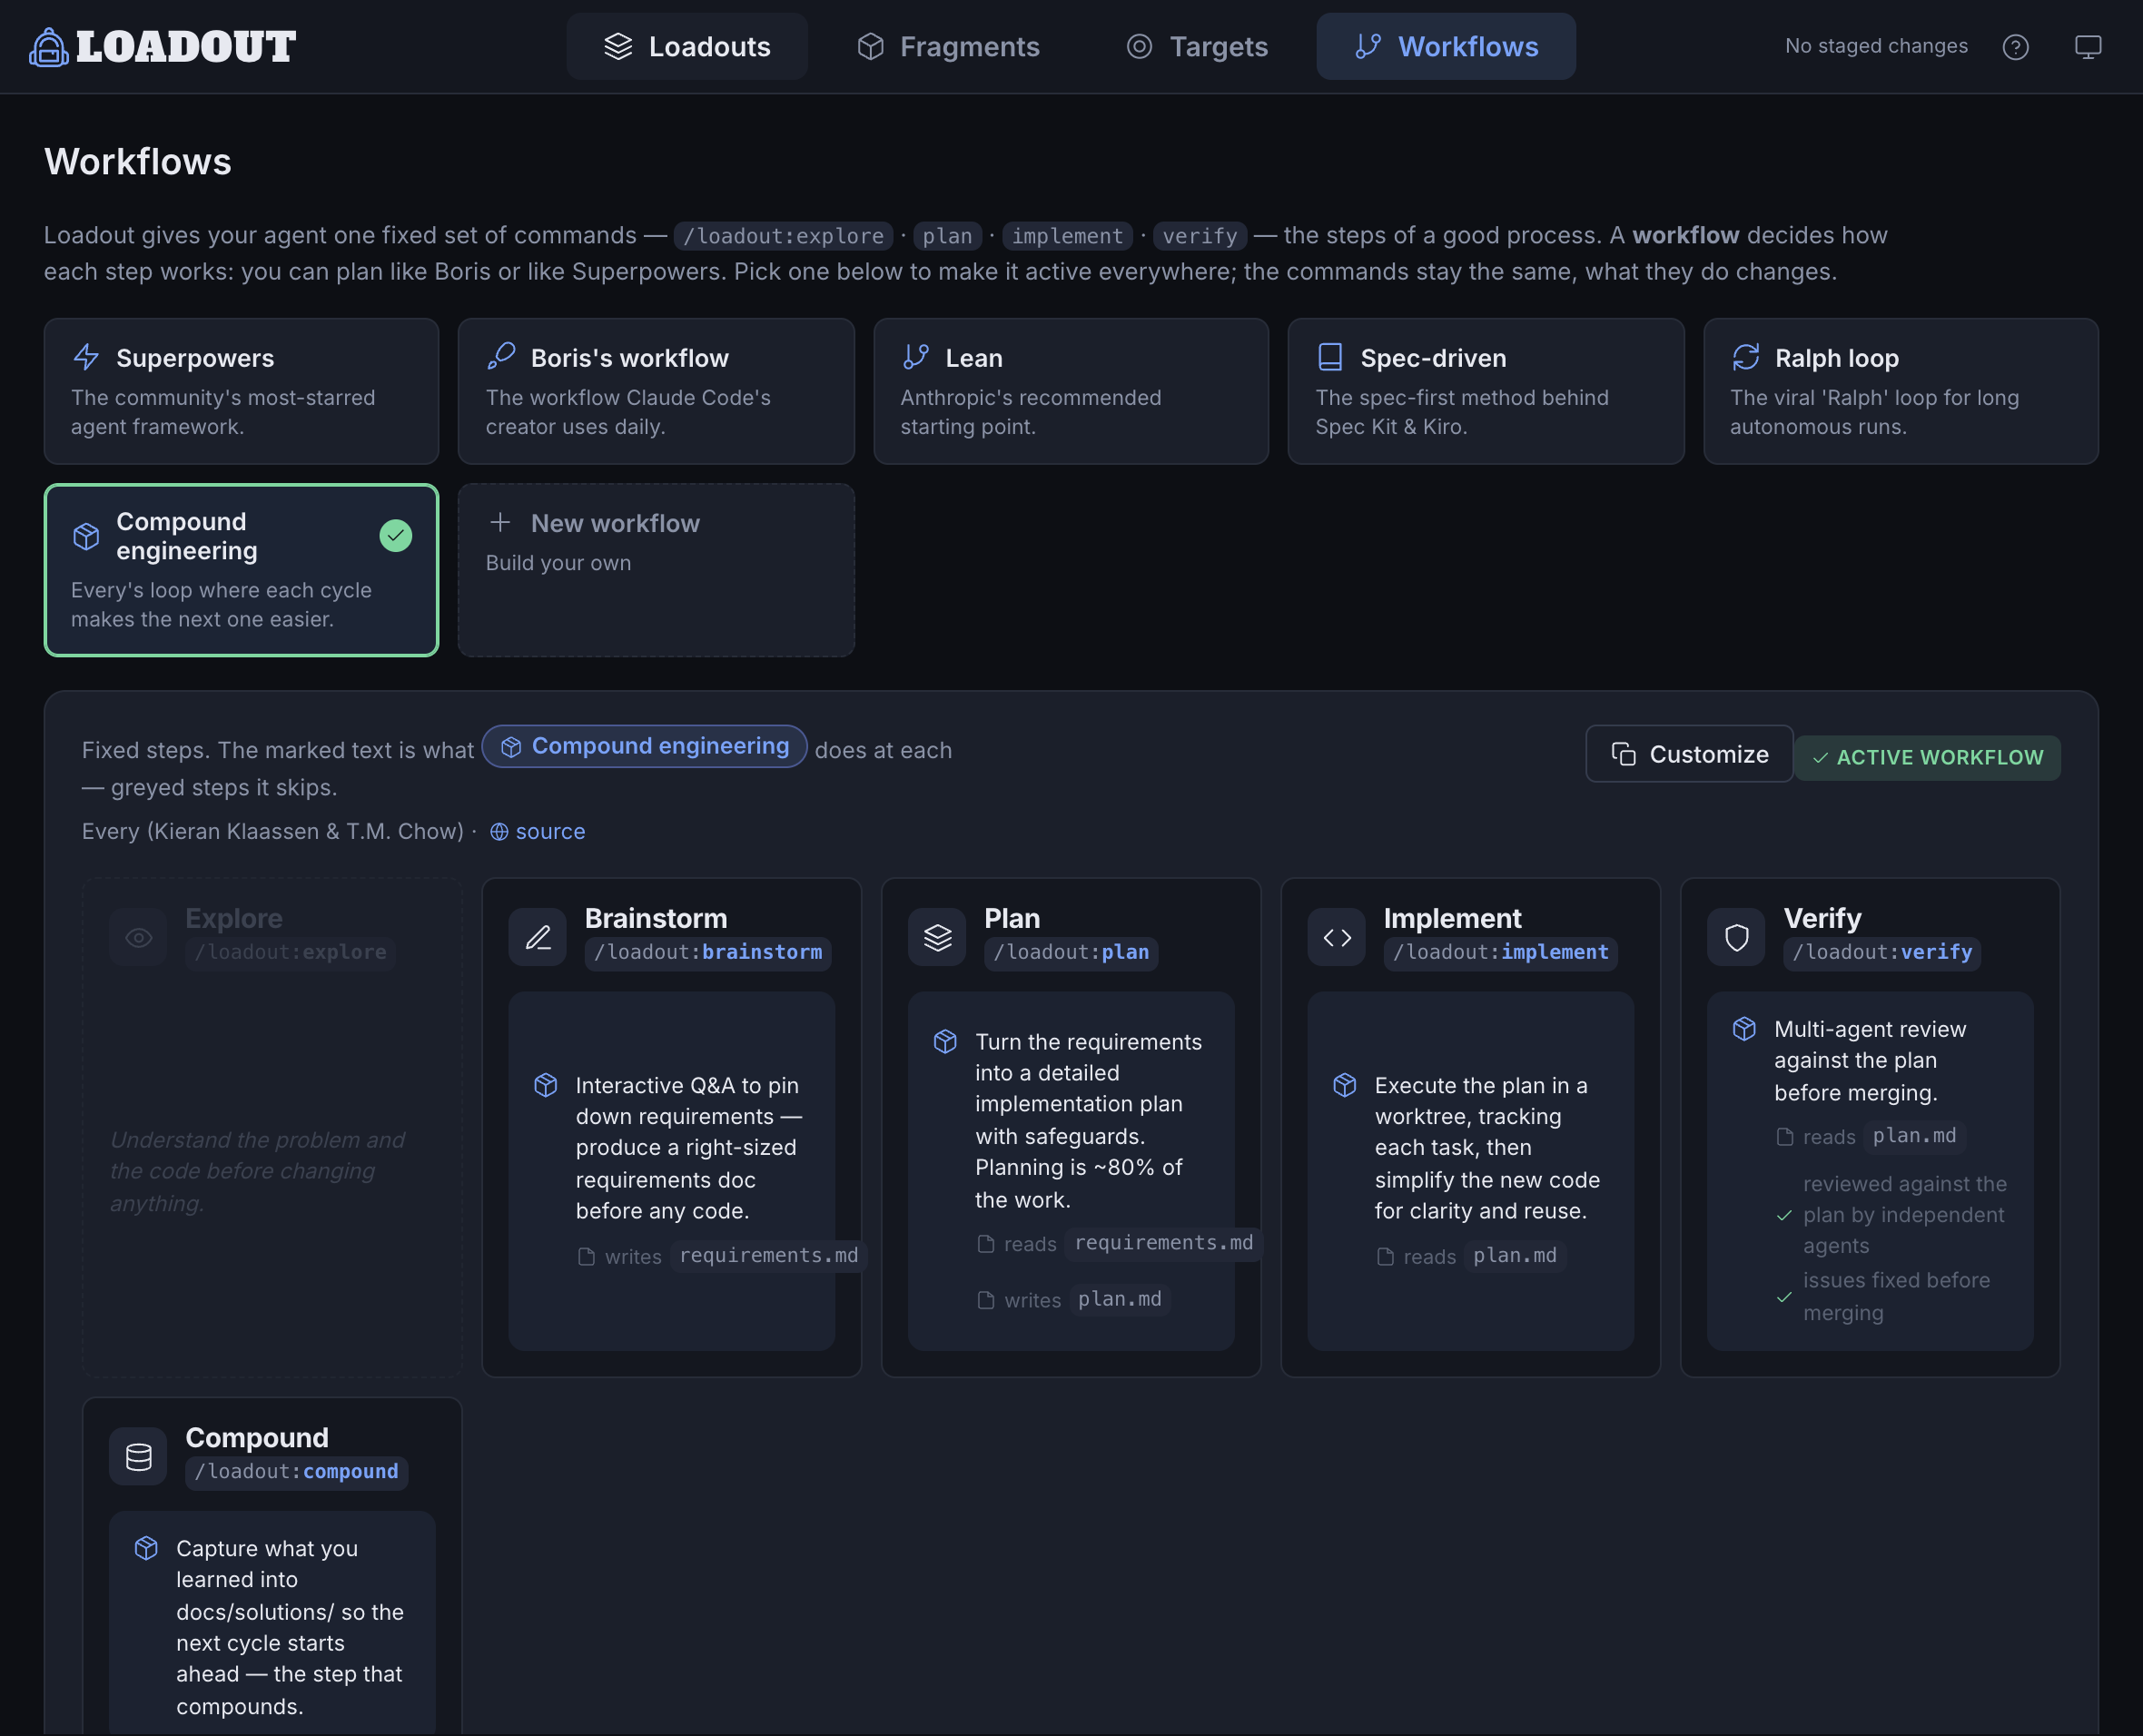
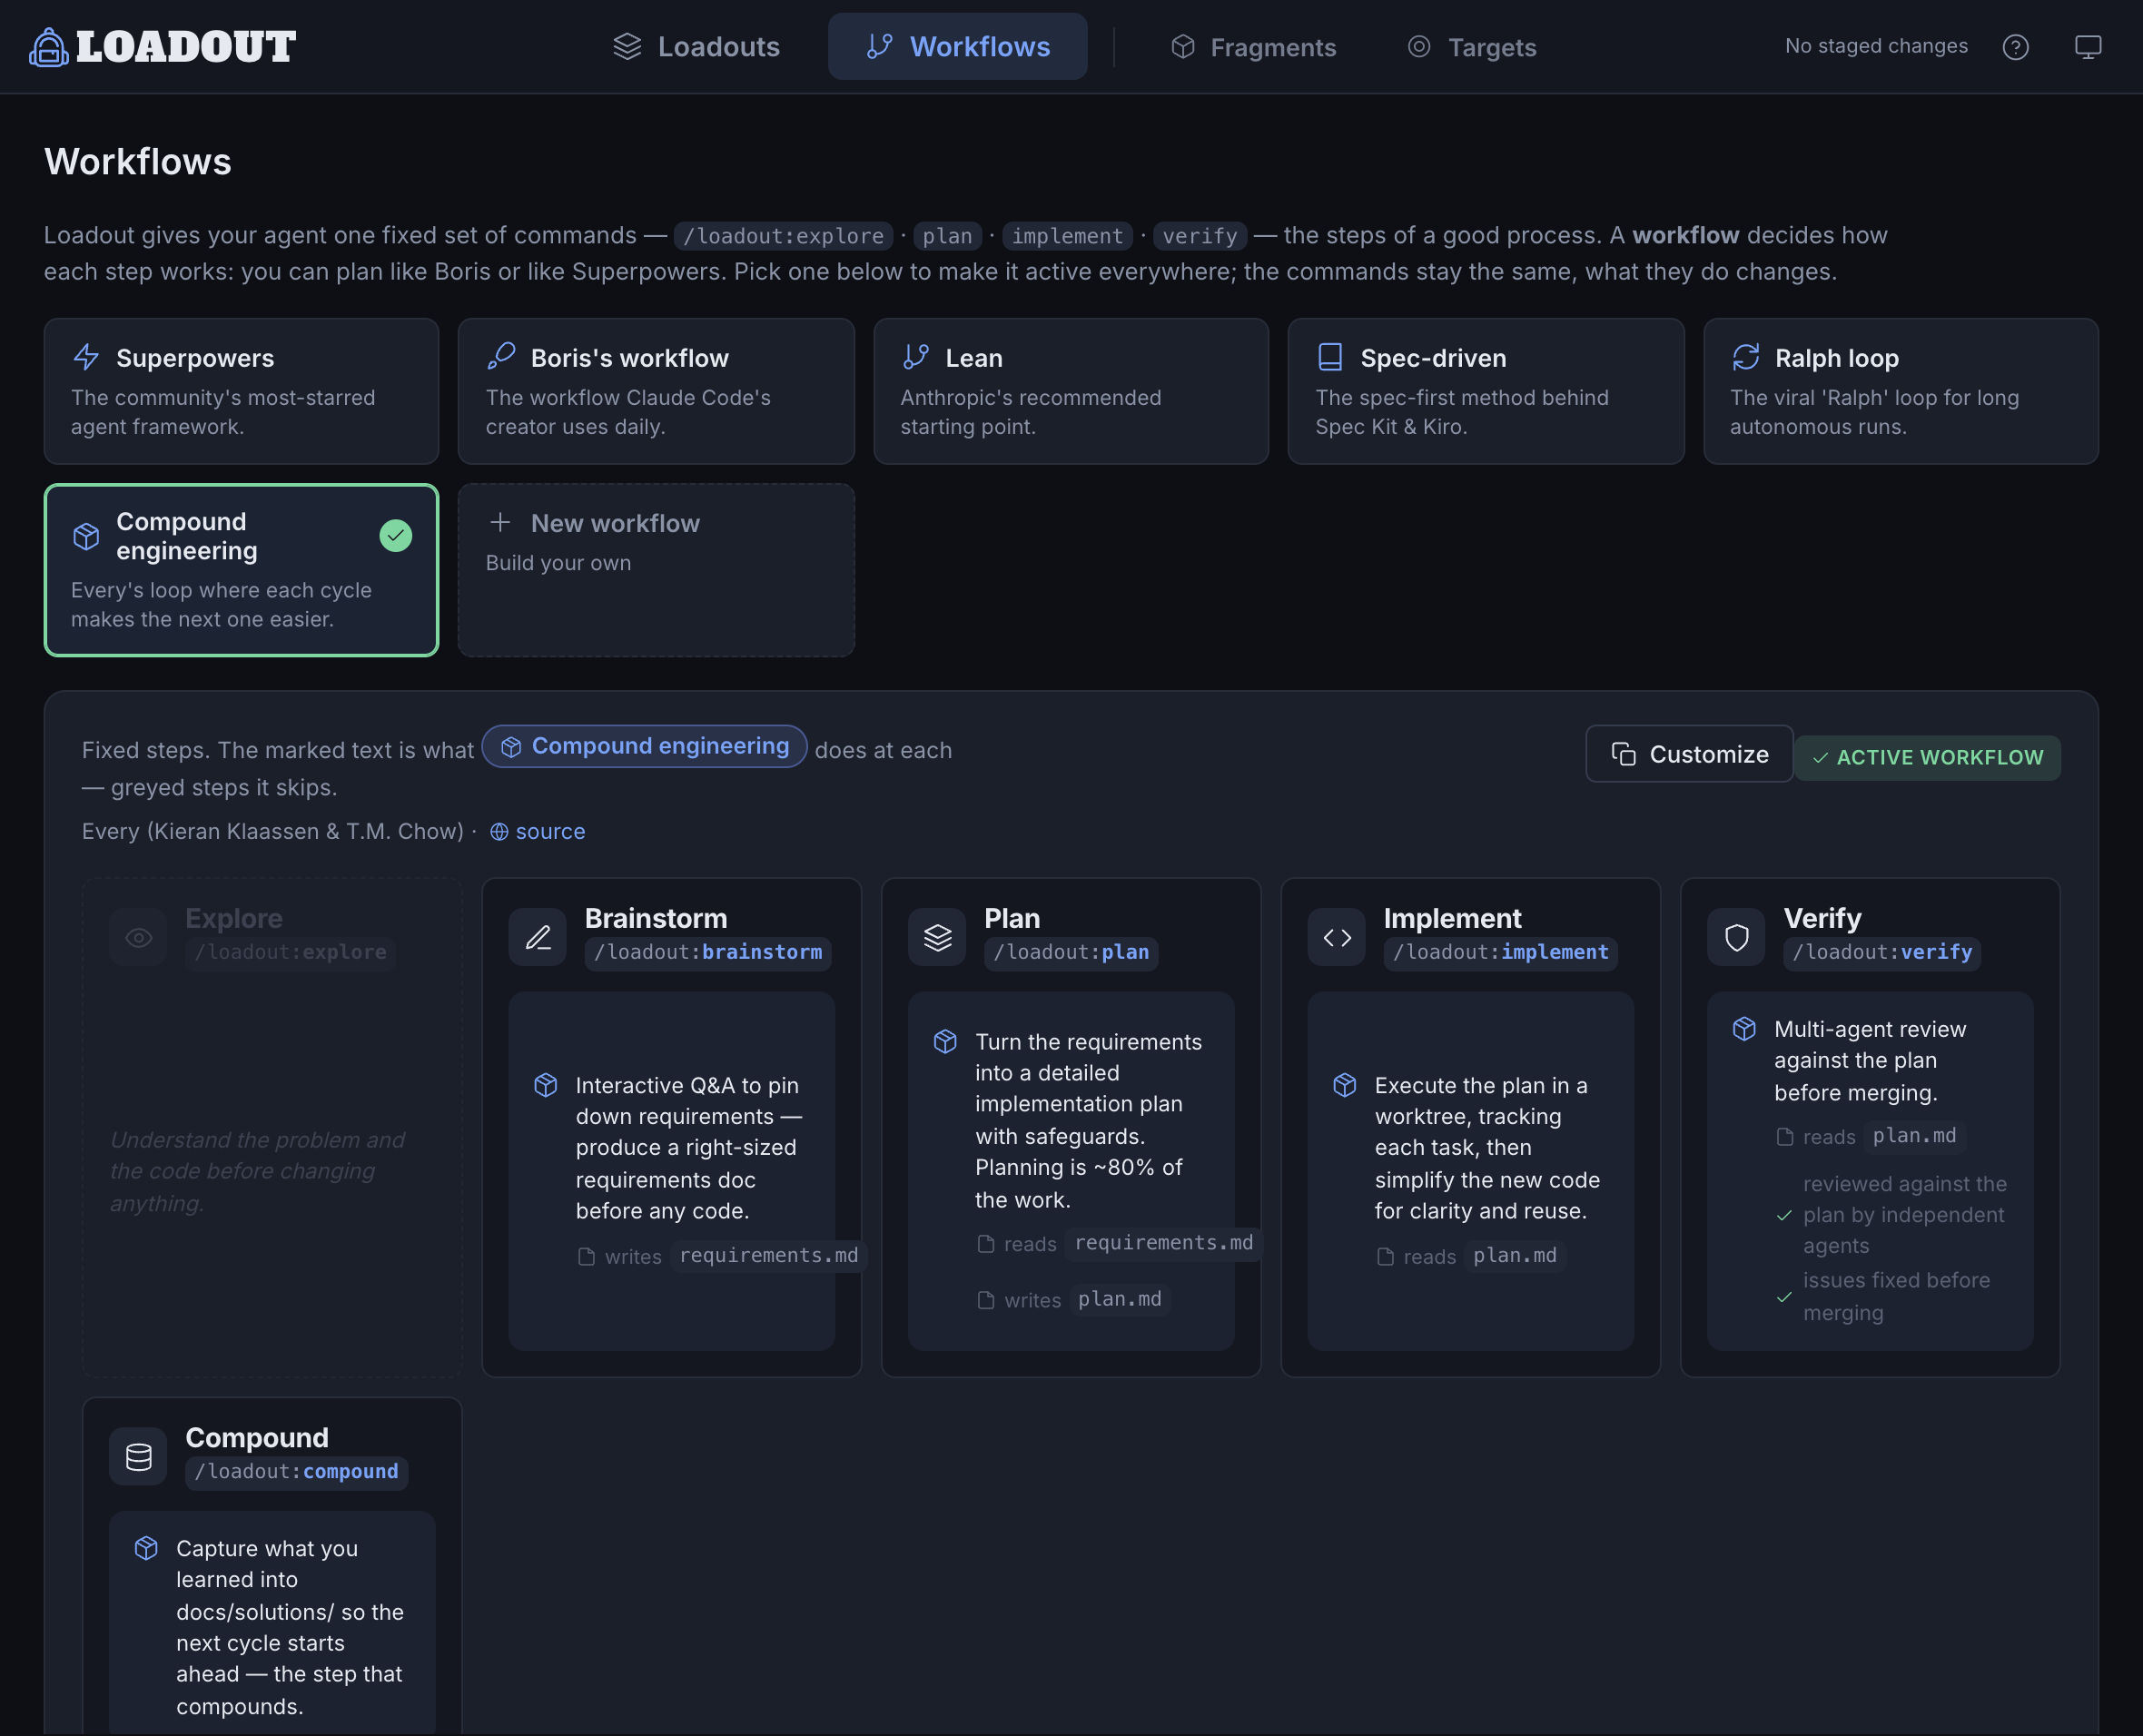
feat(studio): group the tab nav into primary and secondary clusters
The four studio tabs were a flat row of equals, which flattened the
model: Loadouts and Workflows are the two things loadout equips into an
agent (context and process), while Fragments and Targets are the parts a
loadout is built from and selected by. Workflows landing between two
building blocks read as another building block.

Split the nav into two clusters with a thin divider — Loadouts and
Workflows (primary) on the left, Fragments and Targets (secondary,
slightly smaller and dimmer) on the right — so the hierarchy reads at a
glance. Loadouts stays leftmost (the existing nav-order test still holds).

Refresh docs/screenshots/loadouts.png and workflows.png so the README
and docs show the grouped nav instead of the old flat row.

Changed region(s): [[0.2784, 0.0, 0.7424, 0.0617]]

diff --git a/src/studio/assets/studio.css b/src/studio/assets/studio.css
@@ -136,7 +136,11 @@ body {
 .brand-name { font-family: var(--brand); font-size: 22px; font-weight: 400; line-height: 1; letter-spacing: .5px; text-transform: uppercase; }
 .topbar-right { flex: 1 1 0; min-width: 0; display: flex; align-items: center; justify-content: flex-end; gap: 12px; }
 
-.tabs { flex: 0 0 auto; display: flex; gap: 6px; }
+.tabs { flex: 0 0 auto; display: flex; align-items: center; gap: 6px; }
+.tab-group { display: flex; align-items: center; gap: 6px; }
+/* Primary pair (Loadouts, Workflows) = the two things you equip; secondary pair
+   (Fragments, Targets) = the parts they're built from. A thin rule separates them. */
+.tab-divider { width: 1px; height: 22px; background: var(--border); margin: 0 8px; flex: none; }
 .tab {
   display: inline-flex; align-items: center; gap: 8px;
   font: 600 15px var(--sans); color: var(--muted);
@@ -146,6 +150,11 @@ body {
 .tab .icon { width: 17px; height: 17px; }
 .tab:hover { background: var(--panel-2); color: var(--fg); }
 .tab.active { background: var(--accent-soft); color: var(--accent); }
+/* The supporting pair reads lighter so the headliners stand out. */
+.tab-group-secondary .tab { font-size: 13.5px; padding: 9px 16px; opacity: .82; }
+.tab-group-secondary .tab .icon { width: 15px; height: 15px; }
+.tab-group-secondary .tab:hover,
+.tab-group-secondary .tab.active { opacity: 1; }
 
 .staged-wrap { display: flex; align-items: center; gap: 8px; }
 

diff --git a/src/studio/views.rs b/src/studio/views.rs
@@ -399,10 +399,15 @@ fn tab_bar(active: &str) -> Markup {
     let cls = |name: &str| if name == active { "tab active" } else { "tab" };
     html! {
         nav class="tabs" {
-            button class=(cls("profiles")) data-tab="profiles" hx-get="/tab/profiles" hx-target="#main" { (icon("layers")) "Loadouts" }
-            button class=(cls("fragments")) data-tab="fragments" hx-get="/tab/fragments" hx-target="#main" { (icon("box")) "Fragments" }
-            button class=(cls("targets")) data-tab="targets" hx-get="/tab/targets" hx-target="#main" { (icon("target")) "Targets" }
-            button class=(cls("workflows")) data-tab="workflows" hx-get="/tab/workflows" hx-target="#main" { (icon("git-branch")) "Workflows" }
+            span class="tab-group tab-group-primary" {
+                button class=(cls("profiles")) data-tab="profiles" hx-get="/tab/profiles" hx-target="#main" { (icon("layers")) "Loadouts" }
+                button class=(cls("workflows")) data-tab="workflows" hx-get="/tab/workflows" hx-target="#main" { (icon("git-branch")) "Workflows" }
+            }
+            span class="tab-divider" {}
+            span class="tab-group tab-group-secondary" {
+                button class=(cls("fragments")) data-tab="fragments" hx-get="/tab/fragments" hx-target="#main" { (icon("box")) "Fragments" }
+                button class=(cls("targets")) data-tab="targets" hx-get="/tab/targets" hx-target="#main" { (icon("target")) "Targets" }
+            }
         }
     }
 }